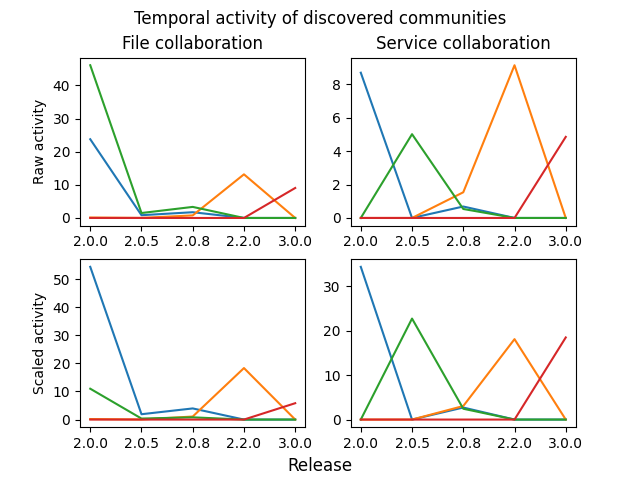
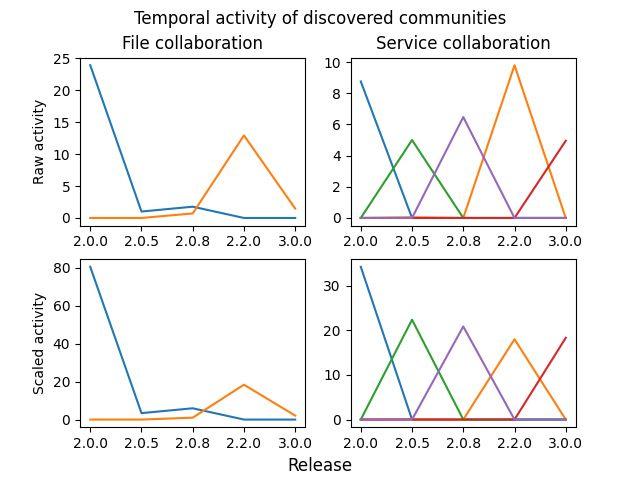
fix: use amount of communities determined by elbow

diff --git a/save_models.py b/save_models.py
@@ -6,10 +6,10 @@ import pickle
 file_net = SnapshotGraph("data_file_network_concat_network.csv", directed=False)
 service_net = SnapshotGraph("data_service_network_concat_network.csv", directed=False)
 
-file_comm = community_parafac_nn_als(file_net, 4,
+file_comm = community_parafac_nn_als(file_net, 2,
                                      "in_communities", "out_communities", "raw_temporal_activity",
                                      "in_temporal_activity", "out_temporal_activity", "core_consistency", init='svd')
-service_comm = community_parafac_nn_als(service_net, 4,
+service_comm = community_parafac_nn_als(service_net, 5,
                                         "in_communities", "out_communities", "raw_temporal_activity",
                                         "in_temporal_activity", "out_temporal_activity", "core_consistency", init='svd')
 
